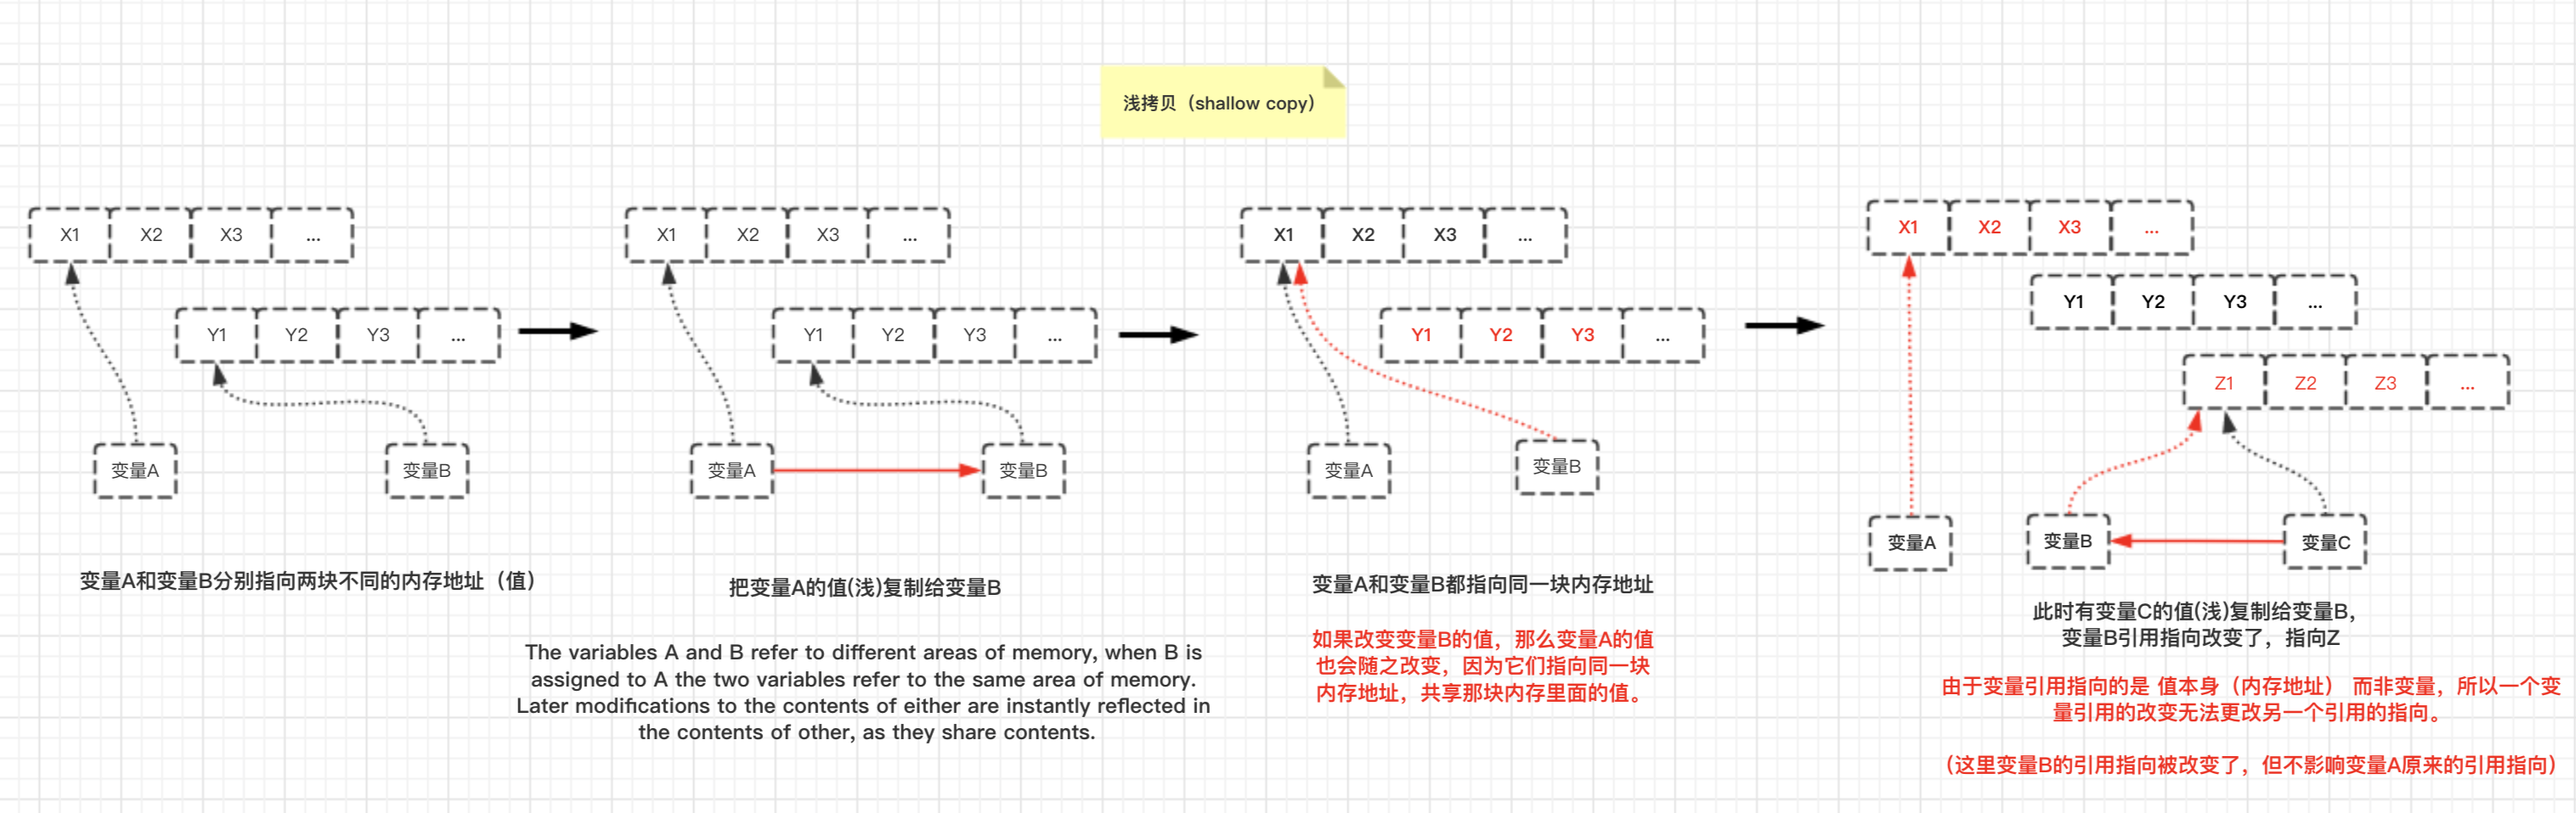
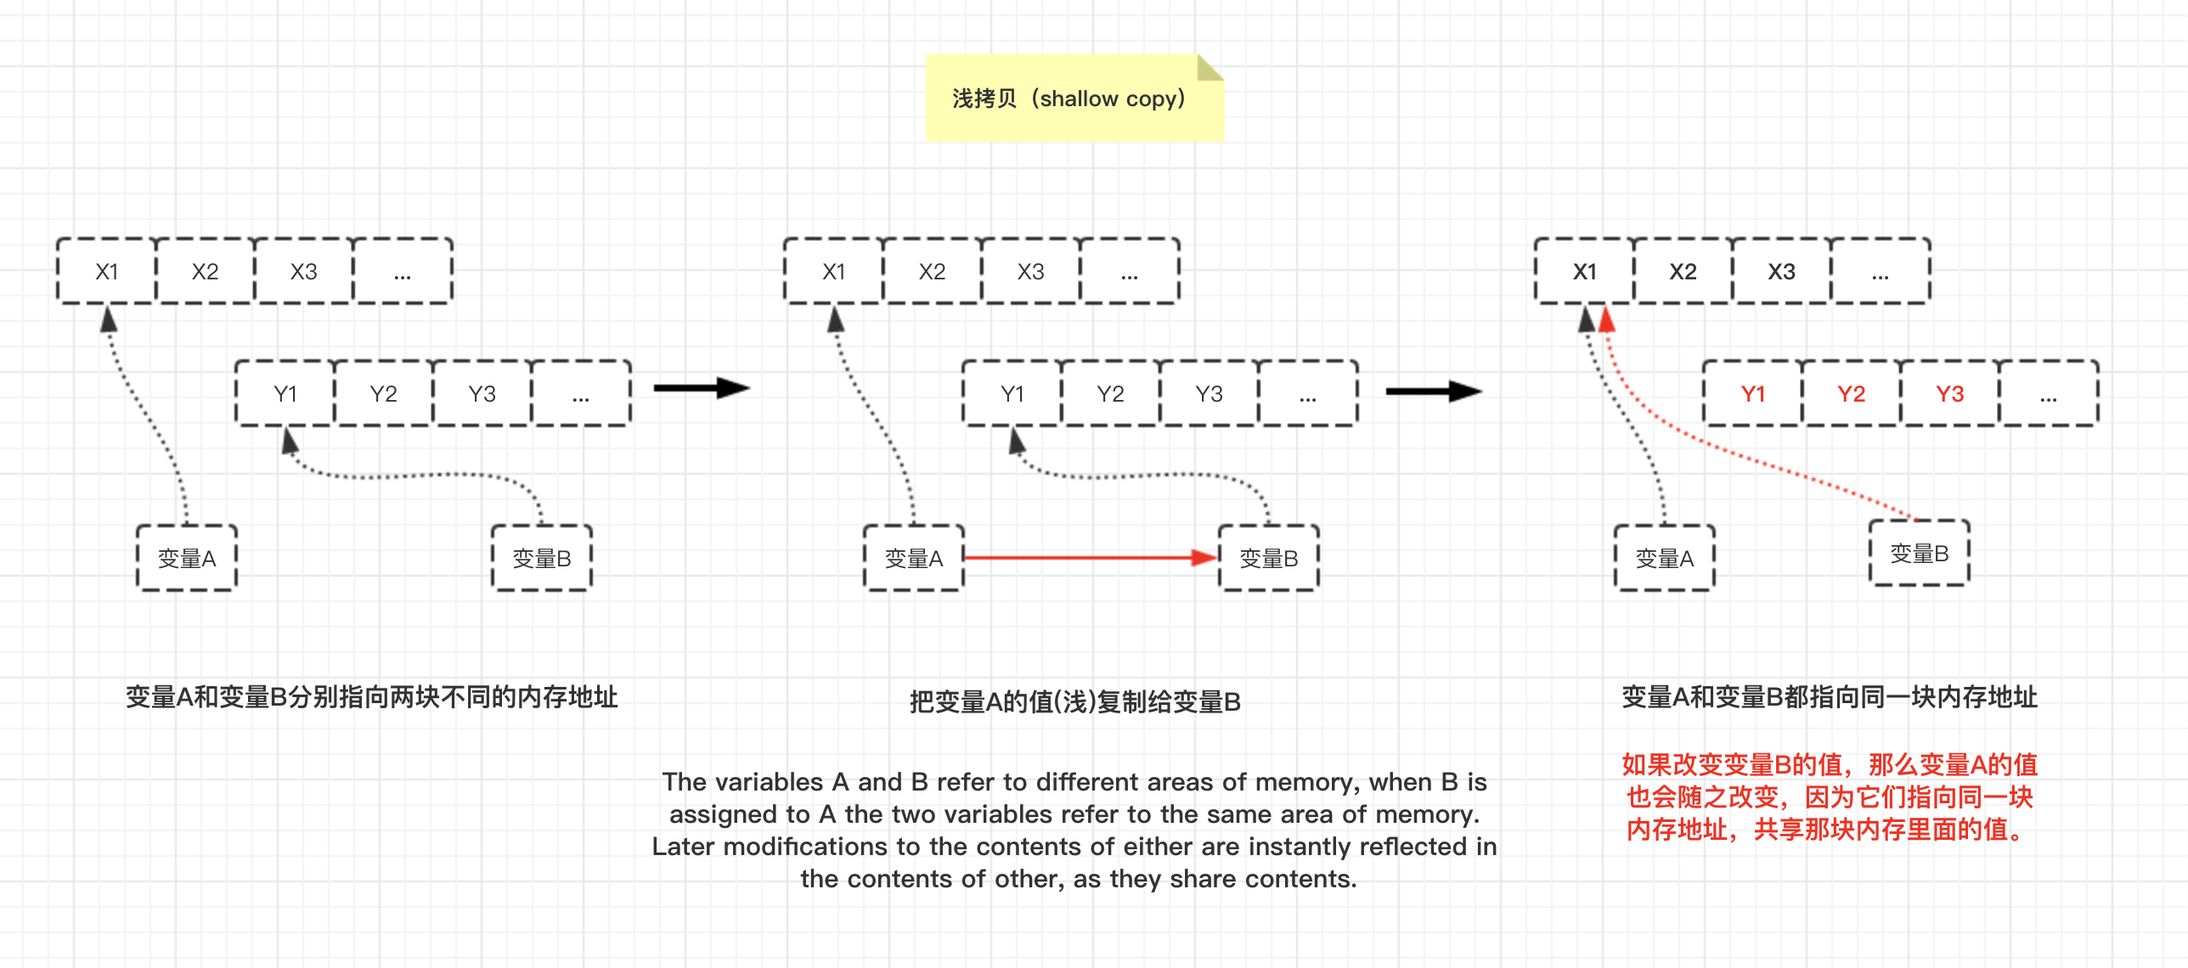
11-3

diff --git a/YDKJS/你不懂JS：类型和语法/第2章 值(2).md b/YDKJS/你不懂JS：类型和语法/第2章 值(2).md
@@ -339,7 +339,7 @@ c;  //[1, 2, 3, 4]
 d;  //[1, 2, 3, 4]
 ```
 
-**简单值(即标量基本类型值)总是通过值复制的方式来赋值/传递。包括null、undefined、字符串、数字、布尔和ES6中的symbol**。
+**简单类型值(即标量基本类型值)总是通过值复制的方式来赋值/传递。包括null、undefined、字符串、数字、布尔和ES6中的symbol**。
 
 **复合值——对象（包括数组和封装对象）和函数，总是通过引用复制（浅拷贝）的方式来赋值/传递**。
 
@@ -347,14 +347,141 @@ d;  //[1, 2, 3, 4]
 
 c和d分别指向一个复合值[1,2,3]的两个不同引用。请注意，c和d仅仅是指向值[1,2,3]，并非持有。所以它们更改的是同一个值（如调用.push(4)），随后它们指向都是更改后的新值[1,2,3,4]。
 
-由于引用指向的是指本身而非变量，所以一个引用无法更改另一个引用的指向。（就是说一个变量重新赋值以后，就与原来的引用的值切断了关系）
+由于引用指向的是指本身而非变量，所以一个引用无法更改另一个引用的指向。
 
 看图：
 
-![浅拷贝](images/浅拷贝.png)
+![浅拷贝](images/浅拷贝-2.png)
+
+```js
+var a = [1,2,3];
+var b = a;
+a;  //[1,2,3]
+b;  //[1,2,3]
+
+//然后
+b = [4,5,6];
+a;  //[1,2,3]
+b;  //[4,5,6]
+```
+`b = [4,5,6];`不影响a指向`值[1,2,3]`。除非b不是直线数组的引用，而是指向变量a的指针，但在JavaScript中不存在这种情况！
+
+函数参数就经常会让人产生这样的困惑：
+```js
+function foo(x) {
+    x.push(4);
+    x;  //[1,2,3,4]
+
+    //下面这步如果没想清楚，容易犯错
+    x = [4,5,6];
+    x.push(7);
+    x;  //[4,5,6,7]
+}
+
+var a = [1,2,3];
+foo(a);
+a;  // [1,2,3,4]，不是[4,5,6,7]
+
+```
+
+我们向函数传递a的时候，实际是将引用a的一个复本赋值给x（看上图），而a仍然指向[1,2,3]。
+
+在函数中我们可以通过引用x来改变数组的值（push(4）之后变成[1,2,3,4]）。
+
+但当参数x被重新赋值（值是复合值）的时候，参数x的引用指向就被改变（x=[4,5,6]），但并不影响变量a的引用指向，所以a仍然指向[1,2,3,4]。
+
+我们不能通过变量x的引用的指向来更改变量a的引用的指向，只能更改a和x共同指向的值。
+
+如果要将a的值变为[4,5,6,7]，必须更改x指向的数组，而不是为x赋值一个新的数组。
+
+```js
+function foo(x) {
+    x.push(4);
+    x;//[1,2,3,4]
+
+    x.length = 0;   //清空数组
+    x.push(4,5,6,7);
+    x;//[4,5,6,7]
+}
+
+var a = [1,2,3];
+
+foo(a);
+
+a;  //是[4,5,6,7]
+```
+
+从上例中可以看出，x.length = 0 和 x.push(4,5,6,7)并没有创建一个新的数组，而是更改了当前数组。于是a指向的值变成了[4,5,6,7]。
+
+## **记住：我们无法自行决定使用值复制还是引用复制，一切有值的类型来决定**。
+
+如果想通过值复制的方式来传递复合值（如数组），就要为复合值创建一个复本，这样传递的就不再是原始的复合值。
+
+```js
+function foo(x) {
+    x.push(4);
+    x;//[1,2,3,4]
+    x.length = 0;   //清空数组
+    x.push(4,5,6,7);
+    x;//[4,5,6,7]
+}
+
+var a = [1,2,3,[8,5,9]];
+foo(a.slice());
+a;  
+```
+
+不带参数的`slice()`会返回一个新数组对象（新组元素为原数组的元素的复制），该新数组是由原数组中复合值的元素进行**浅拷贝**（shallow copy）和简单类型值的元素进行**值复制**，共同组成。
+
+- `slice( )`的浅拷贝：指针对**数组中存在复合值的元素**进行**浅拷贝**, 而不是对整个数组进行浅拷贝。返回的一个新数组。另外深浅拷贝针对的是复合值（如：数组、对象等，只要不是简单基本类型值）
+
+- **数组中有元素**是**复合值**（即该元素是对象或数组等），当数组中这个元素被复制的新数组改变时，原数组中元素的那个数组也会发生改变。因为数组的元素是复合值，所以这些值将以**引用复制**的方式进行赋值和参数传递。
+
+- **数组中元素有简单类型值**，这些值将以**值复制**的方式赋值和参数传递。
+
+由于传递给函数参数的是指向该复本的引用（新数组对象），所以foo()中的操作不会影响a指向的数组。
+
+
+### 通过 值复制 的方式来传递 复合值
+
+如果通过值复制的方式来传递复合值（如数组），就需要为复合值创建一个复本，这样传递的就不再是原始值。
+
+例如：
+```js
+var arr = [1, ["how","are","you"], ["I", "love", "u"]];
+
+//对数组中的（简单类型值）元素进行了值复制。
+//对arr数组的中的（复合值）元素进行了浅拷贝。
+var copy = arr.slice(); 
+copy;   //[1, Array(3), Array(3)]
+
+copy[0] = 0;    //修改copy数组的第一项 
+arr;            //[1, Array(3), Array(3)] —— arr数组第一项元素的值没发生改变。
+
+//因为第一项元素的值类型为简单类型值，这里具体是数字，因为copy数组中的简单类型值是通过arr数组中元素的值复制而来，所以两个数组的第一项都有各自的一个复本，互不影响。记住，简单类型值是以值复制的方式进行赋值与参数传递。（每个变量都持有简单类型值的一个复本，其中一个修改简单类型的值，对其他没有影响。）
+
+copy[1].push("I'm", "fine");    //[0, Array(5), Array(3)]
+arr;                            //[1, Array(5), Array(3)] —— arr数组第二项也发生改变
+
+//因为arr第二项元素为一个复合值，这里具体是数组，因为copy数组中的复合值是通过arr数组浅拷贝而来，所以他们的引用其实是共同指向同一个值。因此，但copy数组中的复合值发生变化，将会影响到在arr数组中的复合值。
+```
+这里`arr.slice()`返回了一个新数组对象（其中的元素为原数组的元素的浅拷贝和值复制）。然后将新的数组传递给变量copy。
 
 
 
+### 将简单类型值封装到一个复合值（对象、数组等）中，然后通过 引用复制 的方式来传递
 
+```js
+function foo(wrapper) {
+    wrapper.a = 42;
+}
 
+var obj = {
+    a: 2    //obj对象中的a属性，值为简单类型值
+};
 
+foo(obj);
+
+obj.a;  //42;
+
+```

diff --git a/YDKJS/你不懂JS：类型和语法/JS中浅拷贝和深拷贝.md b/YDKJS/你不懂JS：类型和语法/JS中浅拷贝和深拷贝.md
@@ -1,0 +1,186 @@
+# **JS中浅拷贝和深拷贝**
+
+首先我们先要分别理解浅拷贝和深拷贝是什么，然后再去掌握在JS中实现浅拷贝和深拷贝的方法。
+
+# JavaScript的值的类型和引用
+
+## 1. **值复制** 和 **引用复制**
+
+**赋值和参数传递**可以通过**值复制**（value-copy）或者**引用复制** （reference-copy）来完成。
+
+- **简单值**（即标量**基本类型值**， scalar primitive）总是通过**值复制**的方式来赋值/传递。
+
+    - 简单值包括 null 、 undefined 、字符串、数字、布尔和 ES6 中的 symbol。
+
+```js
+var a = 20;     //简单值使用 值复制的方式 来赋值/传递参数
+var b = a;
+b = 30;
+
+// 这时a的值是多少？
+//变量a持有该值（20）的一个复本，b持有它的另一个复本。b更改时，a的值保持不变。
+```
+
+
+
+- **复合值**（compound value）总是通过**引用复制**的方式来赋值/传递。
+    
+    - 复合值包括 对象（包括数组和封装/内置对象）和函数。
+
+```js
+//例1
+var a = [1, 2, 3];
+var b = a;
+b.push("d","e","f");
+a;  //[1, 2, 3, "d", "e", "f"]
+
+//变量a和b是分别指向同一个复合值[1,2,3]的两个不同引用。 
+//请注意，a和b仅仅是指向值[1,2,3]，并非持有。
+//所以它们更改的是同一个值（如调用.push("d","e","f") ），随后它们都指向更改后的新值[1,2,3,"d","e","f"]。
+
+//例2
+var m = { a: 10, b: 20 }
+var n = m;
+n.a = 15;
+// 这时m.a的值是多少
+
+```
+    
+## **请记住：我们无法自行决定使用值复制还是引用复制，一切由值的类型来决定**。
+（好好体会这句话）也就是说：
+
+- ### 如果 **值** 为复合值（对象，数组等），就使用**引用复制**（来进行赋值和参数传递）。
+
+    - 引用复制又细分为：**浅拷贝**（复制）和**深拷贝**（复制）。
+
+- ### 如果 **值** 为简单值（基本类型值），就使用**值复制**（来进行赋值和参数传递）。
+
+## 2. JavaScript中**变量的引用**指向的是 **值**（复合值），而不是变量。
+
+- JS中，变量只是一个用于保存值的占位符而已，所以变量没有类型，JS中只有值才有类型。
+
+- **值的类型** 最终决定赋值和参数传递究竟使用的是 引用复制 还是 值复制。
+
+- 由于变量引用指向的是值（复合值）本身而非其他变量，所以一个变量的引用指向的发生改变（换句话说，变量被重新赋值），也不会影响另一个变量引用的指向。比如：
+```js
+var a = [1,2,3];
+var b = a;      //变量a和b共同指向一个数组值（即复合值）
+a;  //[1,2,3]
+b;  //[1,2,3]
+
+//然后
+b = [4,5,6];    //变量b被重新赋值，它的引用指向发生改变，指向新数组值：[4,5,6]
+a;  //[1,2,3]   变量a的引用指向并没有受到变量b指向的改变的影响，依旧指向原来的[1,2,3]值
+b;  //[4,5,6]
+```
+
+再次验证了，一个变量不能成为指向另一个变量的引用。
+
+
+加深印象：JavaScript中**变量的引用**指向的是**复合值**，而不是变量。(以浅拷贝模拟举例)
+
+![浅拷贝](images/浅拷贝.png)
+
+## 3. 不同类型的值存放在哪？
+
+1. 简单值（简单类型的值）存在于**栈空间(stack)**
+
+2. 复合值（复杂类型的值）存在于**堆空间(heap)**
+
+对象的属性可以引用**复合值（对象、数组等）**和**简单基本类型值**。
+
+而简单基本类型的值就是一个value，没有属性！
+
+
+------------------------
+
+
+
+# 在JavaScript中浅拷贝和深拷贝
+
+**浅拷贝和深拷贝**只针对于**复合值**（数组，对象等）而言。
+
+我能理解为这是引用复制的两种形式吗？
+
+## **浅拷贝（shallow copy）**
+![浅拷贝](images/浅拷贝.png)
+**复合值的浅拷贝使用 `=` 赋值操作运算符**。
+
+举例：
+```js
+var a = [1, 2, 3];
+var b = a;
+b.push("d","e","f");
+a;  //[1, 2, 3, "d", "e", "f"]
+
+//例2
+var m = { a: 10, b: 20 }
+var n = m;
+n.a = 15;
+```
+由于浅拷贝就是共享相同的内存引用地址。
+
+
+## **深拷贝（deep copy）**
+![深拷贝](images/深拷贝.png)
+
+
+
+----------
+
+
+
+# JavaScript实现深拷贝的方式
+
+## 使用jQuery来实现浅拷贝和深拷贝对象
+```js
+// Shallow copy(浅拷贝对象)
+var newObject = jQuery.extend({}, oldObject);
+
+// Deep copy（深拷贝对象）
+var newObject = jQuery.extend(true, {}, oldObject);
+```
+- [JS中最有效的深拷贝对象的方法](https://stackoverflow.com/questions/122102/what-is-the-most-efficient-way-to-deep-clone-an-object-in-javascript)
+- [Object copying](https://www.wikiwand.com/en/Object_copying#/Shallow_copy)
+
+
+
+## javascript中深拷贝对象的方法，可以使用json
+```js
+var newObj = JSON.parse(JSON.stringify(someObj));
+```
+
+JavaScript中浅拷贝的方法（ES6），可以说使用`Object.assign()`方法来实现。它的第一个参数是目标对象，之后还可以跟一个或多个源对象。它胡遍历一个或多个源对象的所有可枚举的自有键，并把他们复制（使用=操作符赋值）到目标对象，最后返回目标对象。
+```js
+function anotherFunction() {/*..*/}
+
+var anotherObject = {
+    c: true
+}
+
+var anotherArray = [];
+
+var myObject = {
+    a: 2,
+    b: anotherObject,   //引用，不是副本（copy）！
+    c: anotherArray,    //另一个引用！
+    d: anotherFunction
+}
+anotherArray.push(anotherObject, myObject);
+
+//下面是重点。
+var newObj = Object.assign({}, myObject);
+
+newObj.a;   //2
+newObj.b === anotherObject;     //true
+newObj.c === anotherArray;
+newObj.d === anotherFunction;
+```
+
+
+------
+
+
+
+
+
